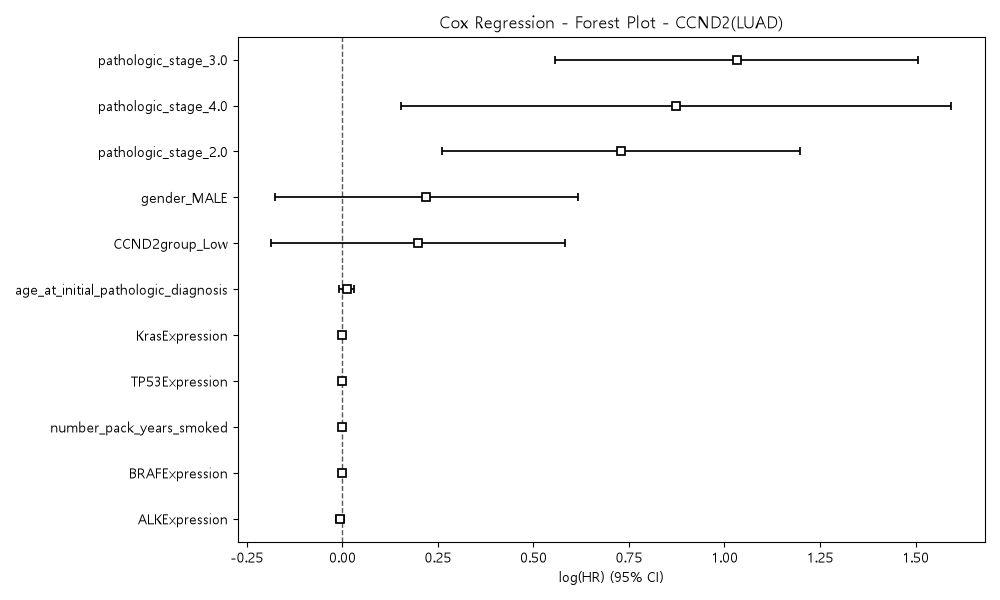
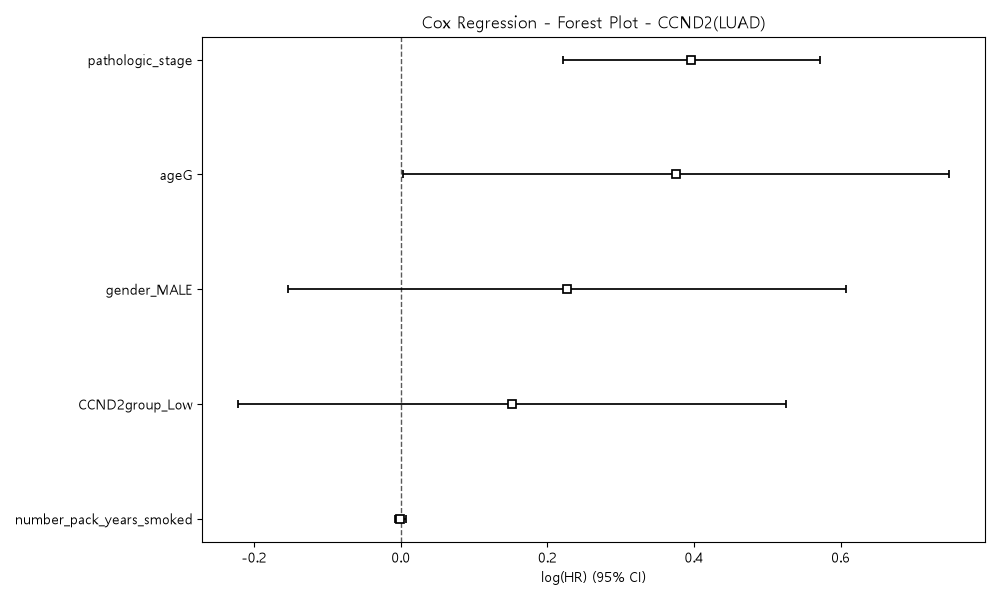
today's first commit

diff --git a/analysis_v2.py b/analysis_v2.py
@@ -637,8 +637,8 @@ if __name__ == "__main__":
             df_table5 = analyze_kaplan_meier(target_gene, merged_df, mode, plot_base_dir, group_col=group_col_name, plot_type=CURRENT_PLOT_TYPE)
             
             age_col = 'age_at_initial_pathologic_diagnosis' if mode == "LUAD" else 'age'
-            cox_categorical = [group_col_name, 'gender', 'pathologic_stage']
-            cox_continuous = [age_col, 'number_pack_years_smoked'] + gene_vars
+            cox_categorical = [group_col_name, 'gender']
+            cox_continuous = ['ageG', 'number_pack_years_smoked', 'pathologic_stage'] #+ gene_vars
             
             df_table3 = analyze_cox_regression(
                 target_gene, merged_df, mode, plot_base_dir, 
